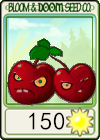
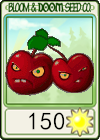
区别透明度

Changed region(s): [[0.03, 0.2, 0.96, 0.7714]]

diff --git a/source/component/plant.py b/source/component/plant.py
@@ -190,8 +190,10 @@ class Plant(pg.sprite.Sprite):
             self.animate_timer = self.current_time
 
         self.image = self.frames[self.frame_index]
-        if ((self.current_time - self.hit_timer) < 200) or (self.current_time - self.highlightTime < 200):
+        if  (self.current_time - self.highlightTime < 200):
             self.image.set_alpha(150)
+        elif ((self.current_time - self.hit_timer) < 200):
+            self.image.set_alpha(192)
         else:
             self.image.set_alpha(255)
 

diff --git a/source/component/zombie.py b/source/component/zombie.py
@@ -182,7 +182,7 @@ class Zombie(pg.sprite.Sprite):
         if (self.current_time - self.hit_timer) >= 200:
             self.image.set_alpha(255)
         else:
-            self.image.set_alpha(150)
+            self.image.set_alpha(192)
 
     def getTimeRatio(self):
         return (self.ice_slow_ratio / self.speed)   # 目前的机制为：冰冻减速状态与自身速度共同决定行走的时间间隔
